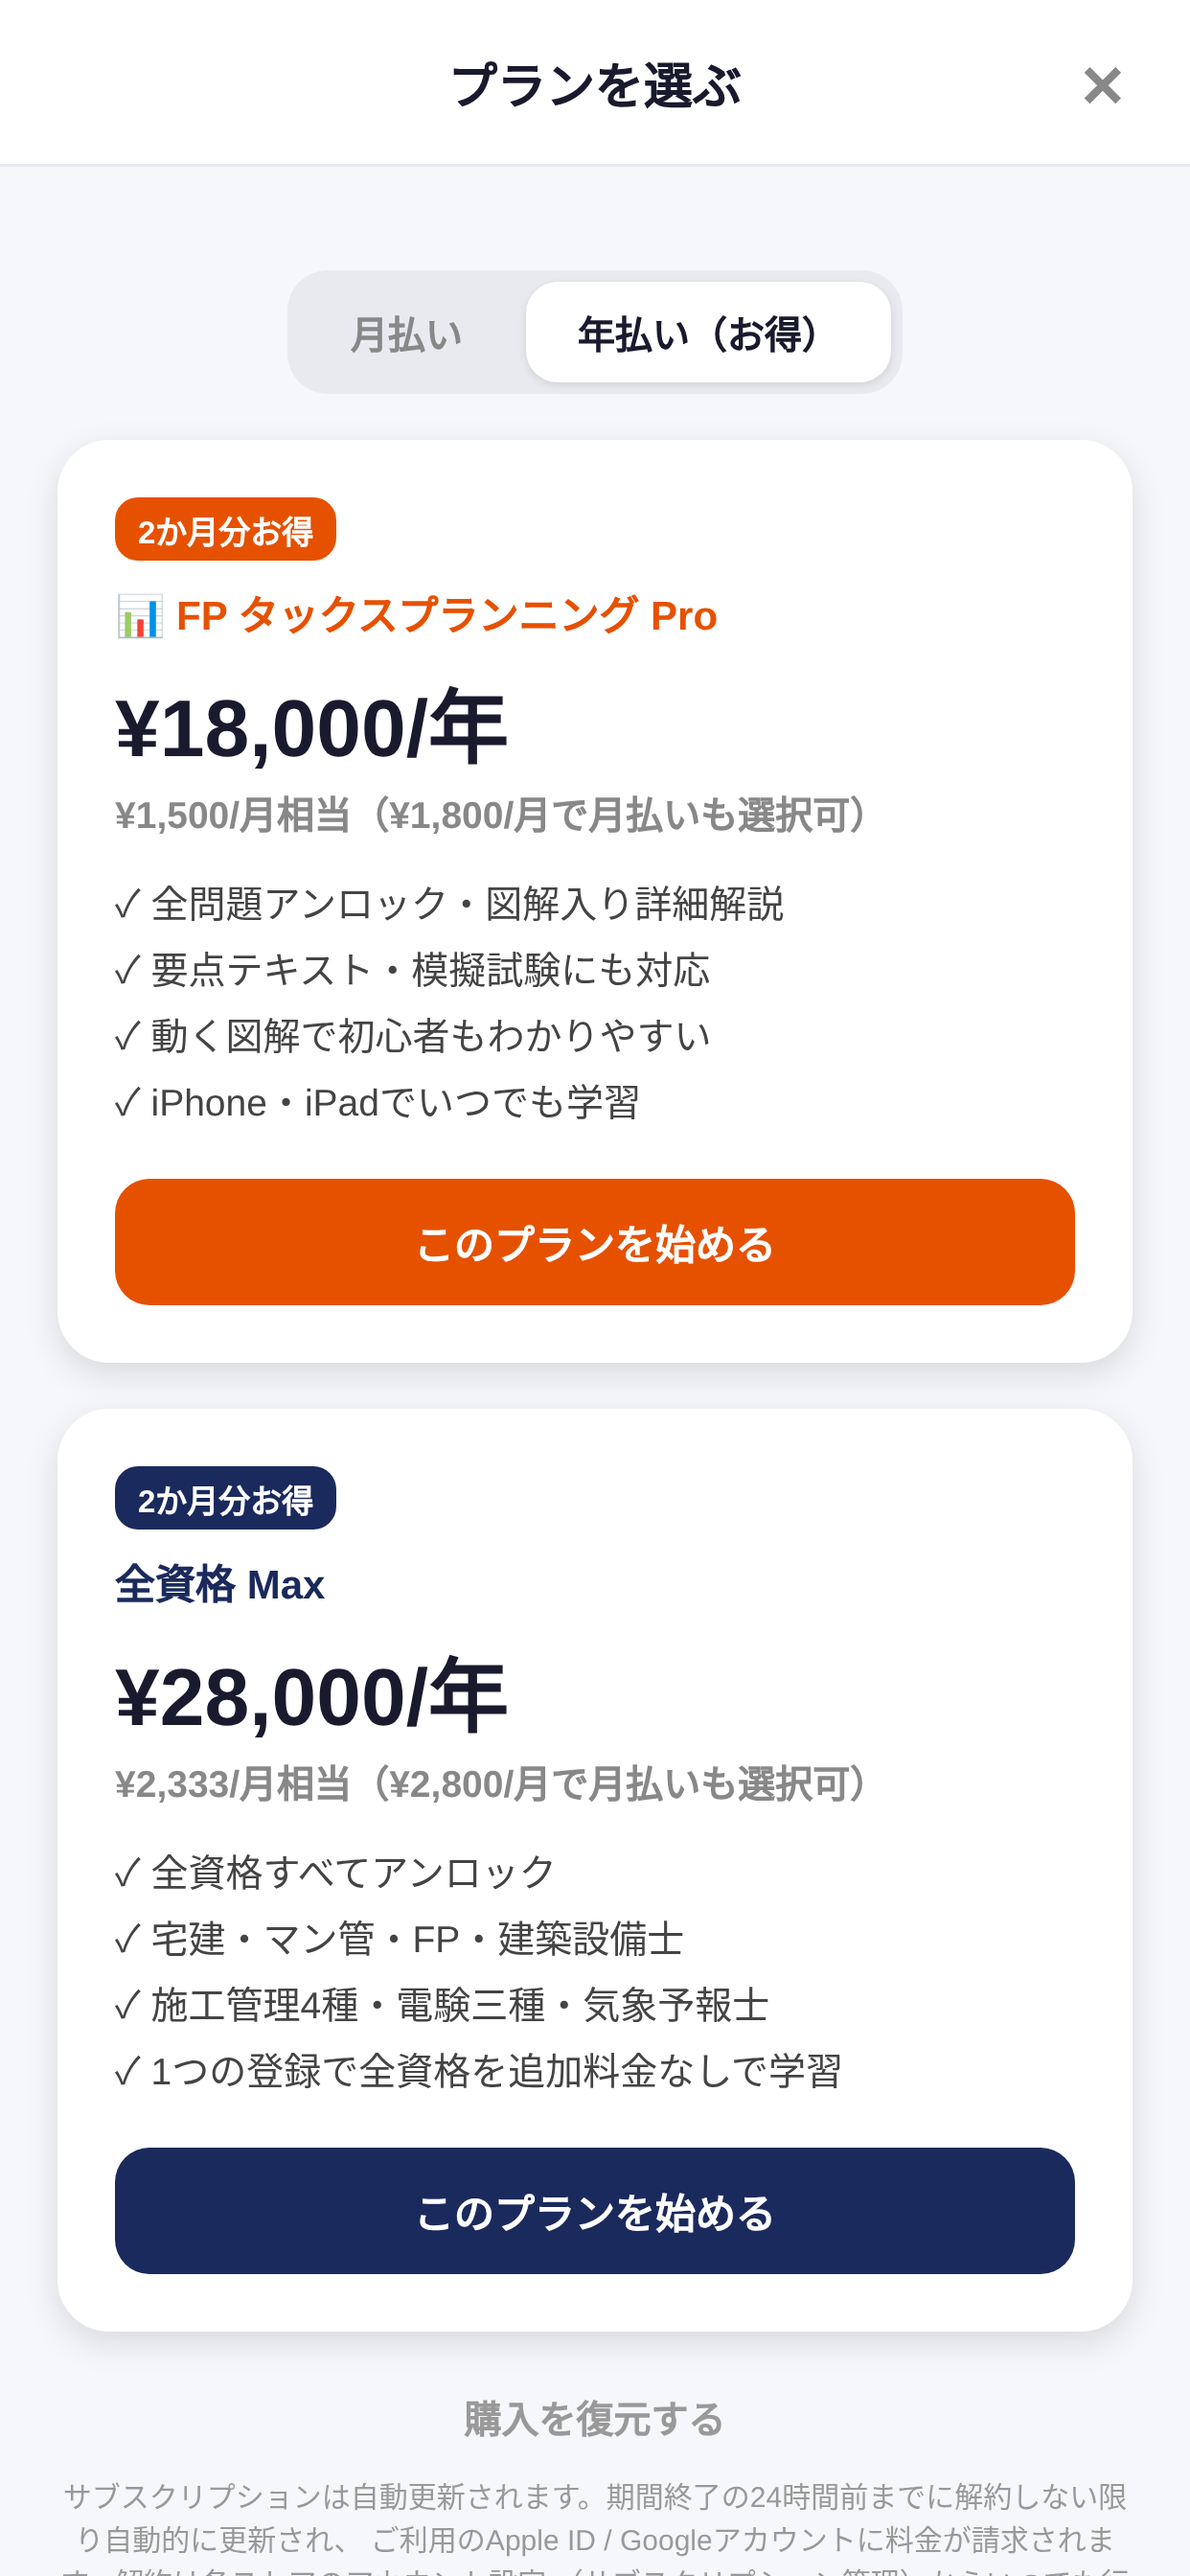
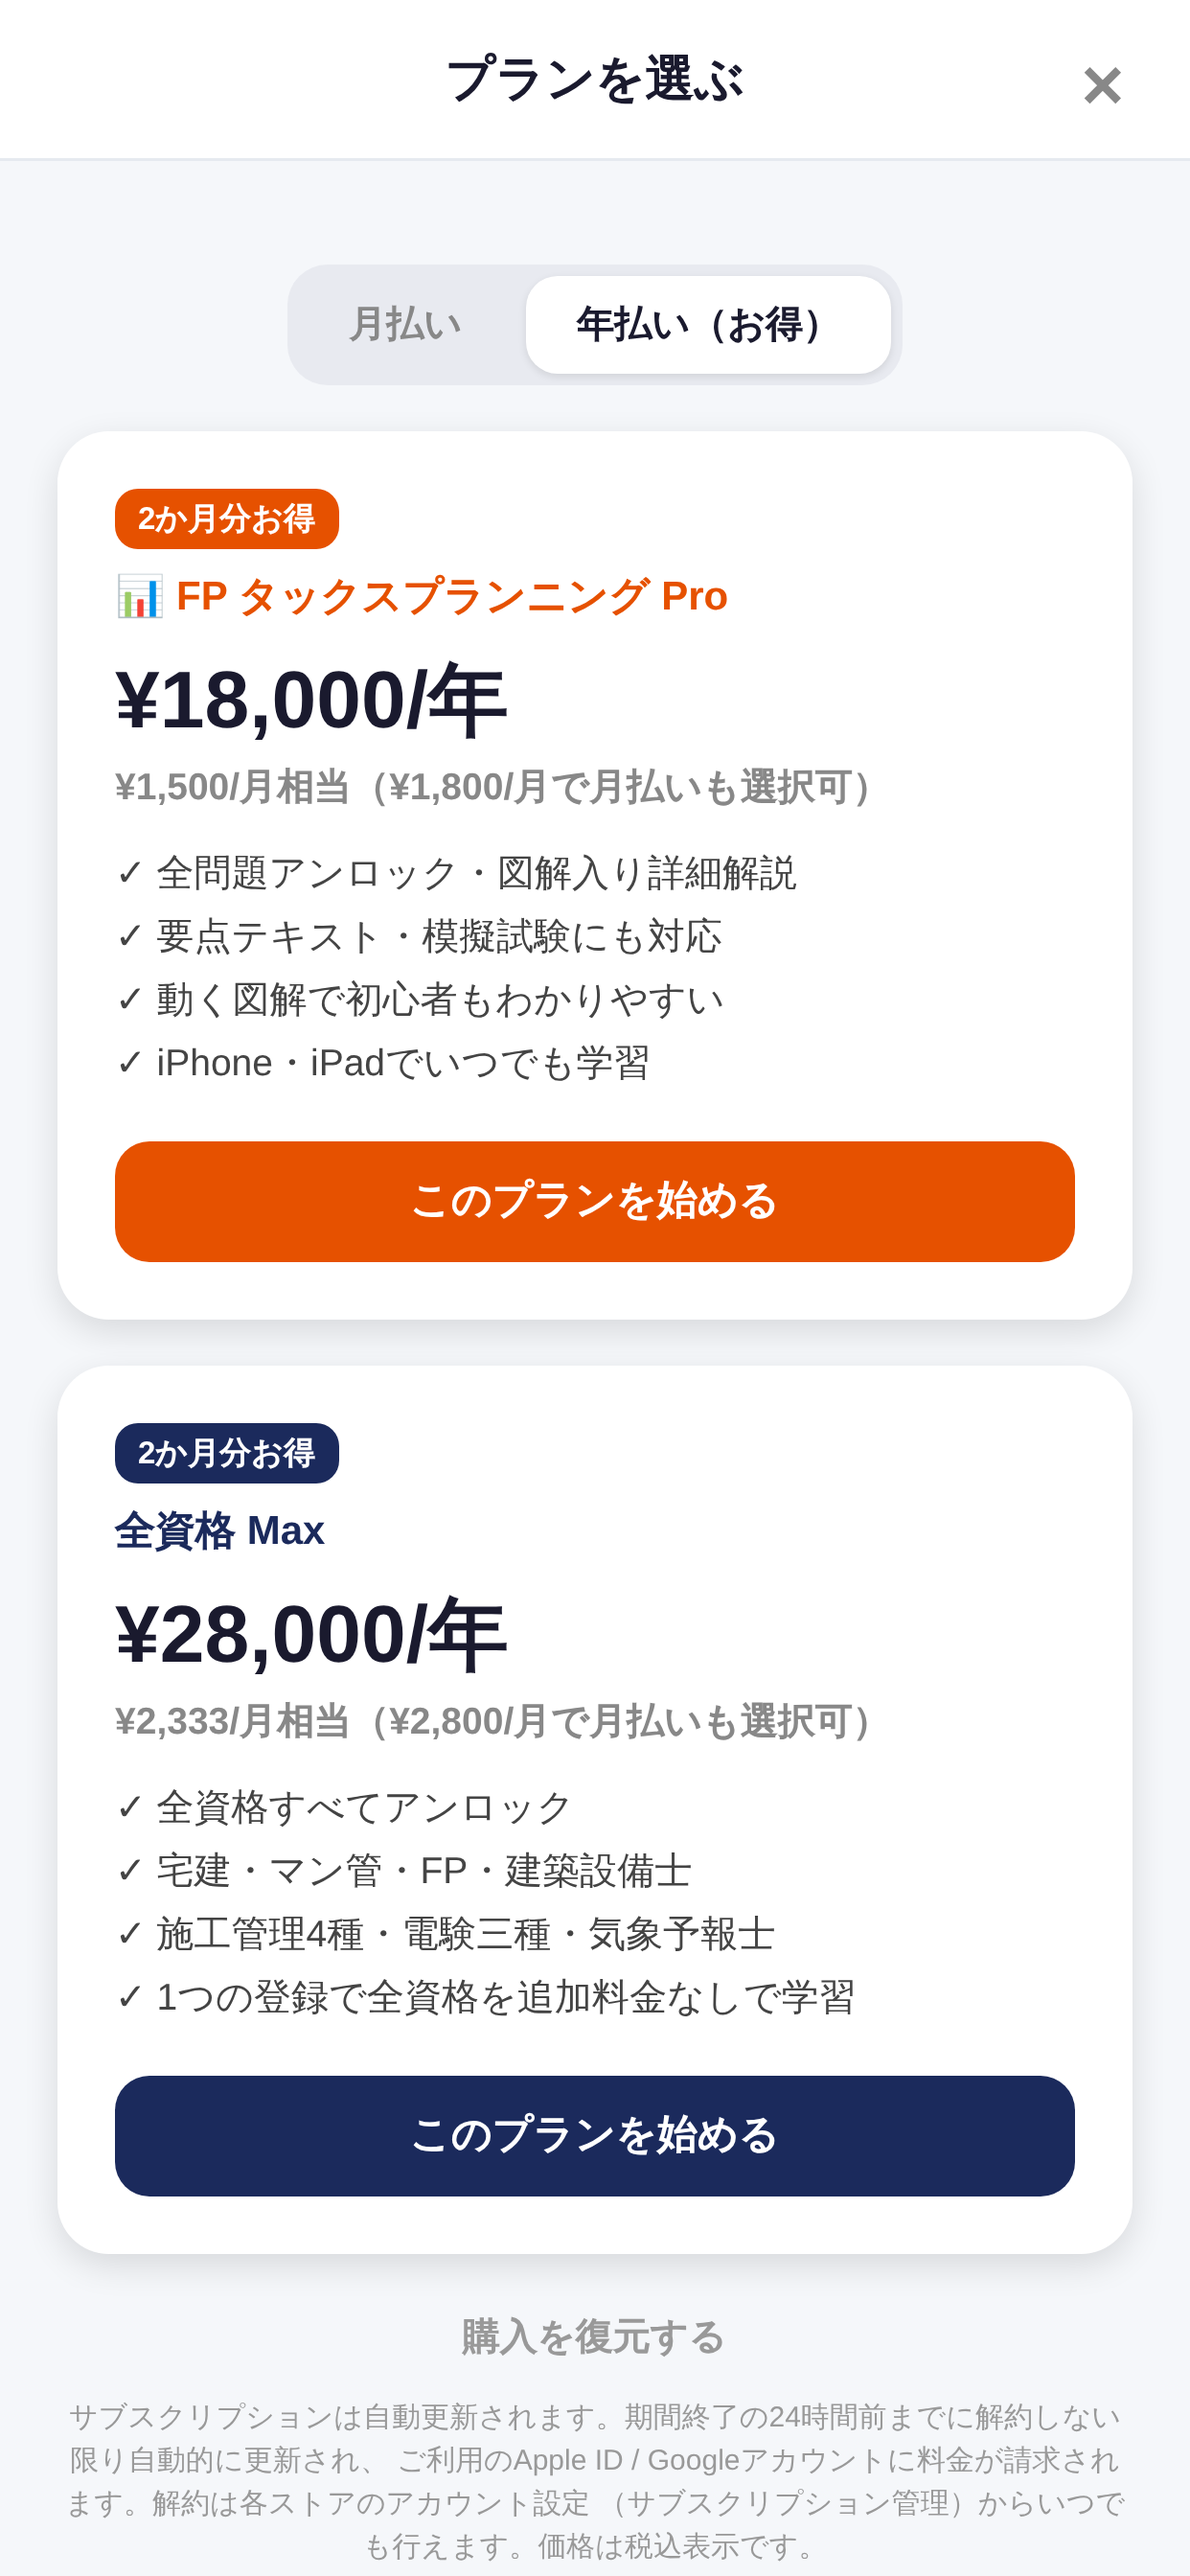
ペイウォール審査用スクリーンショットに液化石油ガス設備士・高圧ガスを追加
App Store Connect のサブスク商品登録で審査用スクリーンショット
（1242×2688px）が必要になったため、撮影対象に lpgas と koatsu を
追加して全23枚を撮り直した。既存21資格の画像も同時に更新され、
価格表記などが現在の実装と一致した状態になっている。

撮影には CertPaywall の web 分岐と CERTS_COMING_SOON の一時パッチが
要る（スクリプト冒頭に手順あり）。Web版は二重課金防止のために購入UIを
出さない実装なので、パッチしないと購入ボタンが写らず審査用に使えない。
パッチは撮影後に git checkout で復元済みで、コミットには含まれていない。
CERTS_COMING_SOON は ['lpgas', 'koatsu'] のまま、CertPaywall の
web 分岐と unavailable 判定も元の状態であることを確認している。
dist/ も本番設定で再ビルドし直した。

Claude-Session: https://claude.ai/code/session_011phrvXnNSMdQhnhDgFhEGM

diff --git a/scripts/cap_paywalls_all.js b/scripts/cap_paywalls_all.js
@@ -52,6 +52,8 @@ const TARGETS = [
   { name: 'denkisekou',  path: '/denkisekou/riron',   label: '電気工事施工管理技士' },
   { name: 'kikaisekou',  path: '/kikaisekou/doboku',  label: '建設機械施工管理技士' },
   { name: 'dobokusekou', path: '/dobokusekou/doboku', label: '一級土木施工管理技士' },
+  { name: 'lpgas',       path: '/lpgas/kiso',         label: '液化石油ガス設備士' },
+  { name: 'koatsu',      path: '/koatsu/hoan',        label: '高圧ガス製造保安責任者' },
   { name: 'max',         path: '/takkei/kenri',       label: '全資格 Max（Maxカードを上に出す）', scrollToMax: true },
 ];
 
